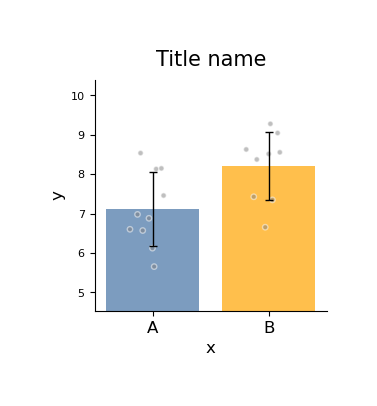
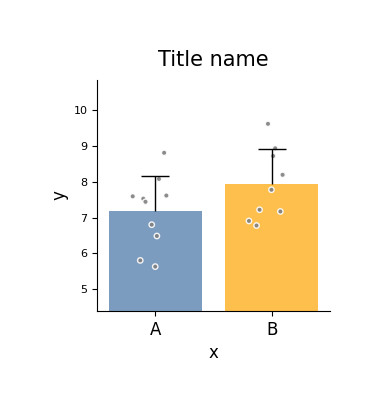
docs(single_bar): add dots_alpha and errorbar_mode parameters to single_group example

diff --git a/docs/en/usage/single_group.md b/docs/en/usage/single_group.md
@@ -121,9 +121,12 @@ ax = plot_one_group_bar_figure(
     width=0.8,
     show_dots=True,
     dots_size=15,
+    dots_alpha=0.9,
     colors=["#4573a5", "orange"],
     color_alpha=0.7,
     errorbar_type="sd",
+    errorbar_mode="upper",
+    errorbar_capsize=10,
 )
 ```
 
@@ -169,7 +172,6 @@ ax = plot_one_group_bar_figure(
 
 
     
-![png](../assets/usage/single_group_files/single_group_14_0.png)
     
 
 

diff --git a/docs/zh/usage/single_group.md b/docs/zh/usage/single_group.md
@@ -121,9 +121,12 @@ ax = plot_one_group_bar_figure(
     width=0.8,
     show_dots=True,
     dots_size=15,
+    dots_alpha=0.9,
     colors=["#4573a5", "orange"],
     color_alpha=0.7,
     errorbar_type="sd",
+    errorbar_mode="upper",
+    errorbar_capsize=10,
 )
 ```
 